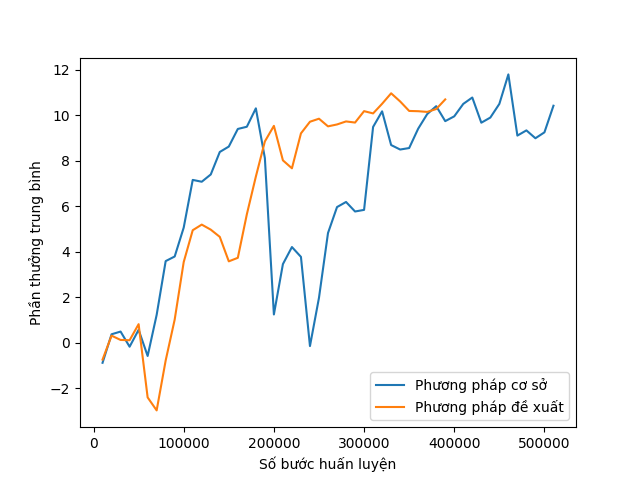
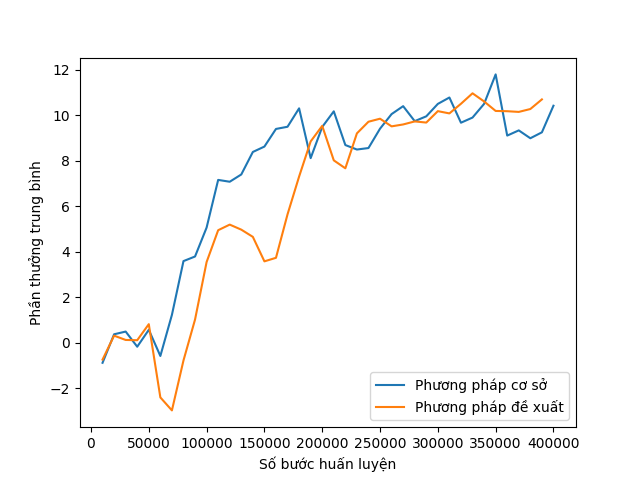
redraw env 1

diff --git a/utils/draw_comp.py b/utils/draw_comp.py
@@ -8,7 +8,7 @@ def main():
     save_path = './figures/comp_imgs/'
     Path(save_path).mkdir(parents=True, exist_ok=True)
 
-    env_id = 2
+    env_id = 1
     compare_items = ['bl-env', 'vis_obs-env']
     compare_items_name = ['Phương pháp cơ sở', 'Phương pháp đề xuất']
     figure_name = 'avg_reward_his'
